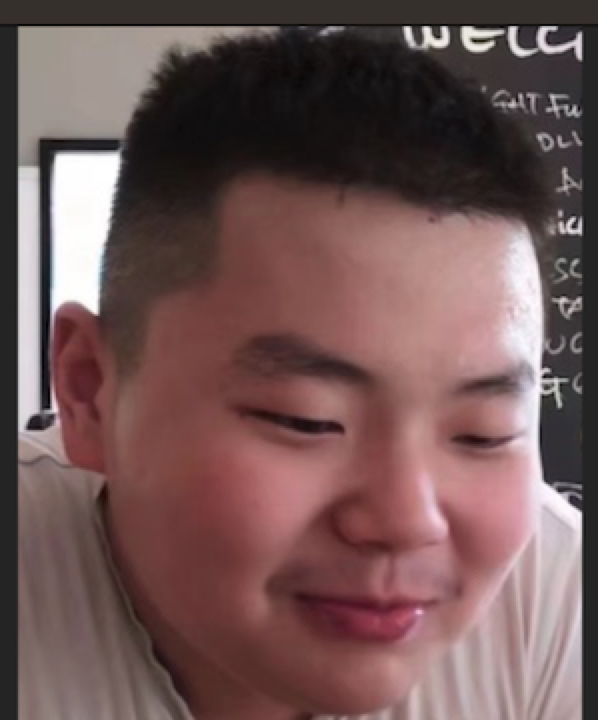
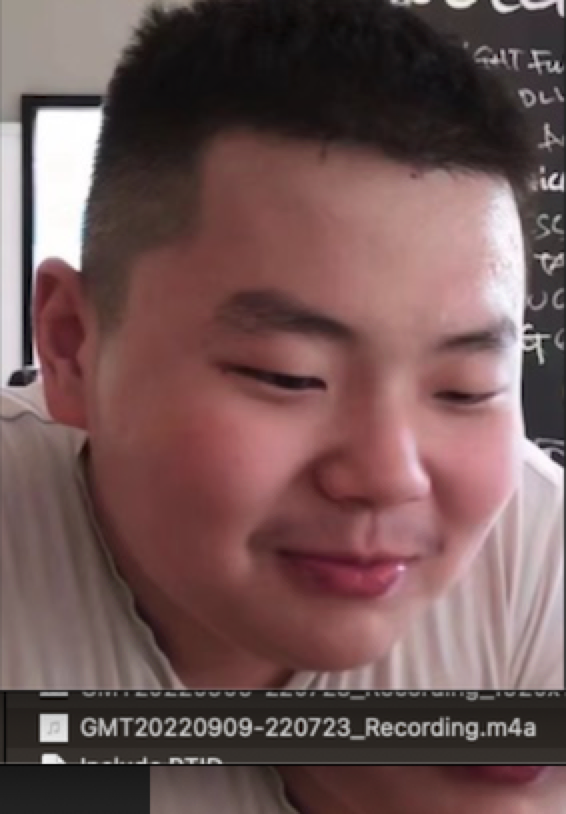
Dec 24

diff --git a/index.html b/index.html
@@ -201,7 +201,10 @@
 		     	<div class="col-xs-6 col-md-2" style="text-align: center; align: middle;">
 			    <a href="https://www.cs.cmu.edu/"> <img src="/img/headers/CMU.png" height="95" /> </a>
 			</div>
-			<div class="col-xs-6 col-md-2" style="text-align: center; align: middle;">
+            <div class="col-xs-6 col-md-2" style="text-align: center; align: middle;">
+			    <a href="https://ccaim.cam.ac.uk/summer-school/"> <img src="/img/headers/Cambridge.png" height="95" /> </a>
+			</div>
+			<div class="col-xs-12 col-md-2" style="text-align: center; align: middle;">
 			    <a href="https://raeng.org.uk/"> <img src="/img/headers/vios.png" height="190" width="520" /> </a>
 			</div>
 			<div class="col-xs-6 col-md-2" style="text-align: center; align: middle;">
